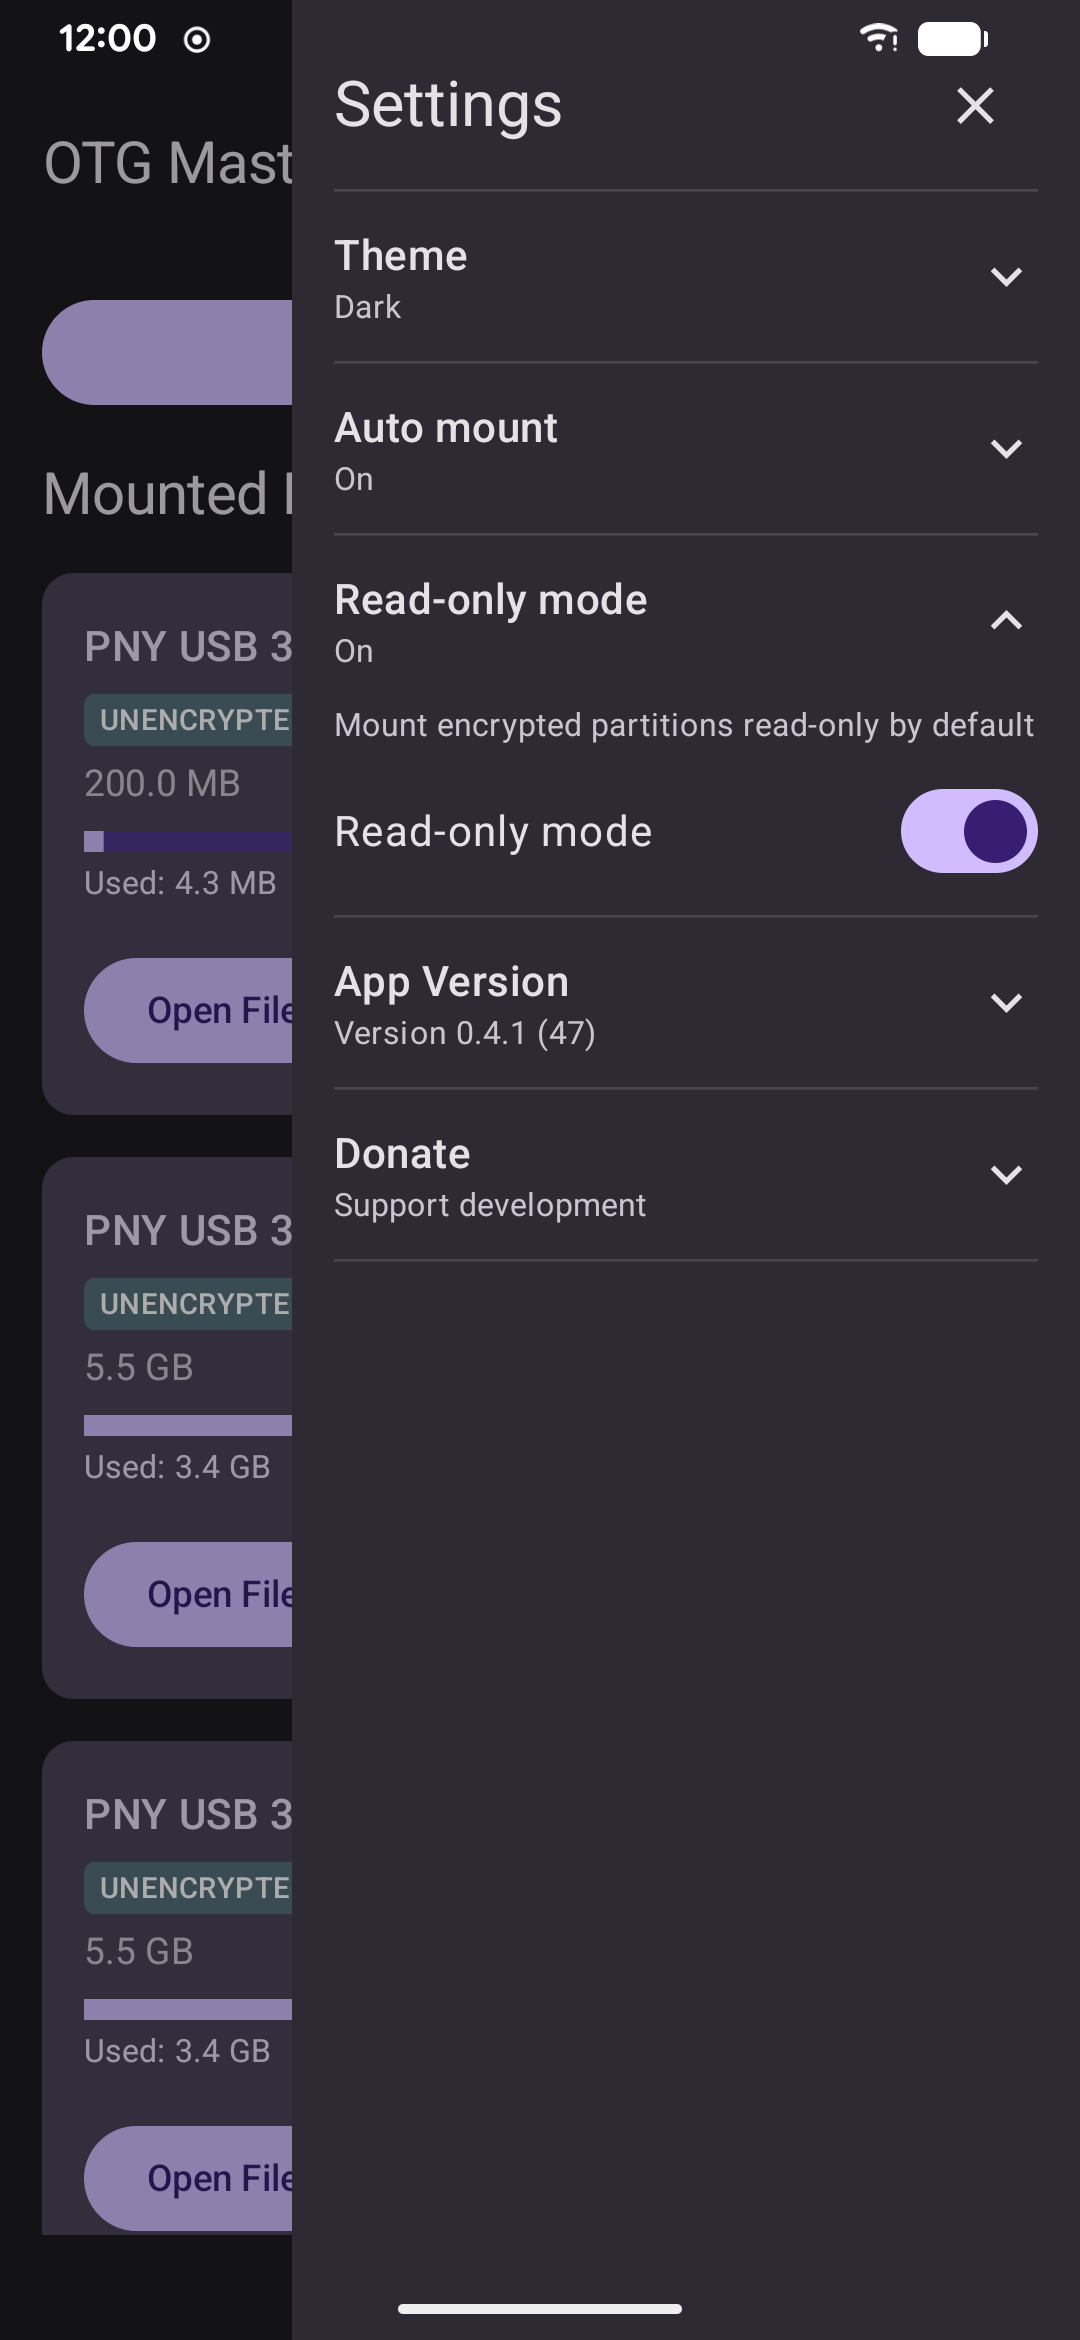
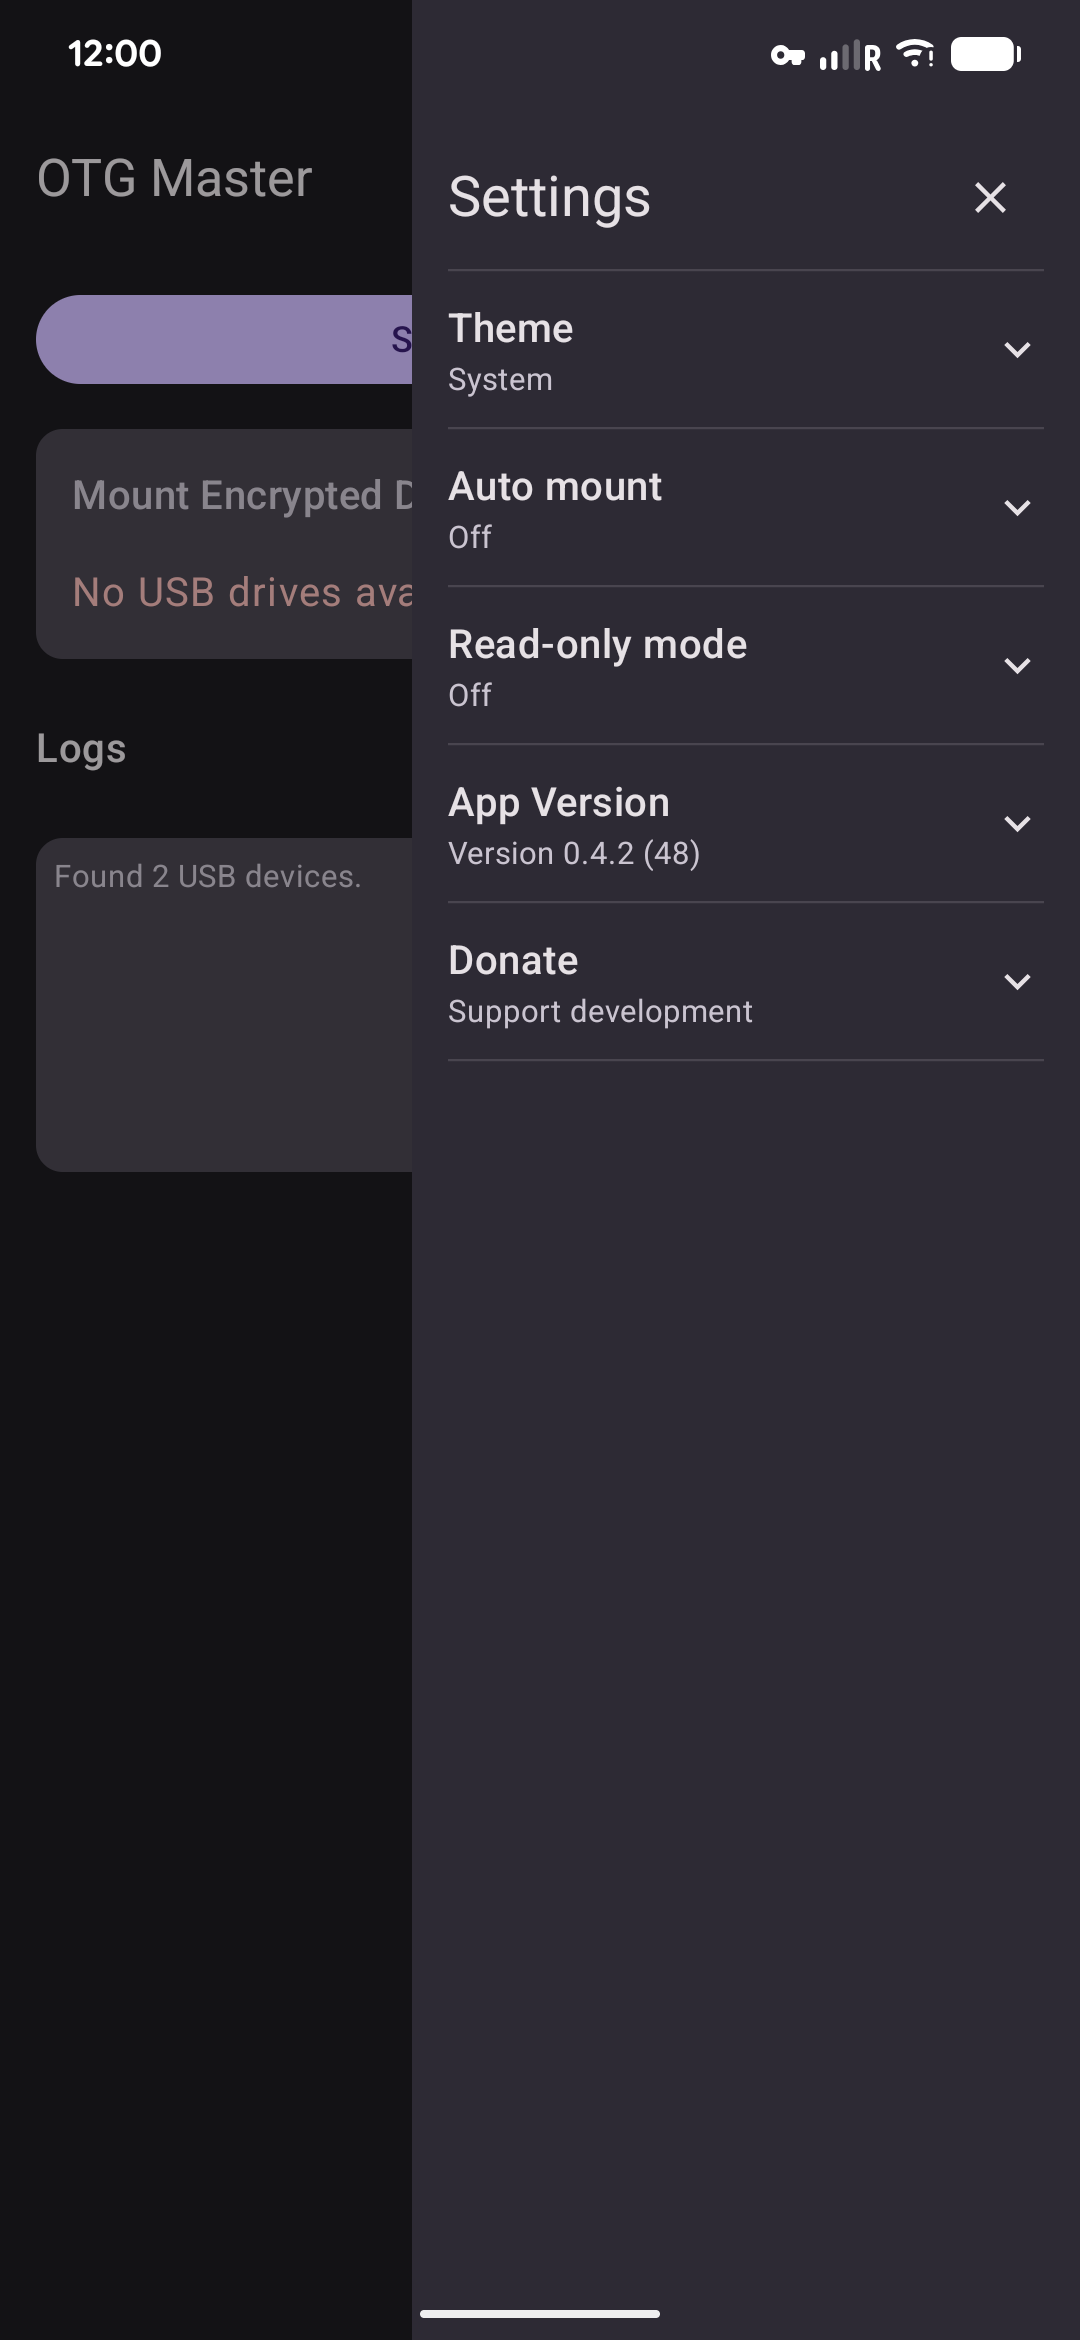
docs: Drive 5 runs on the Pixel — cascades, Argon2, Format and Encrypt; phone screenshots
Device validation for this PR, recorded as AGENTS.md requires (BENCHMARK_RUNS.md, new
section at the top):

- Pixel 7 Pro (Android 17), APK cafdf24, Drive 5 (TEST_DATA.md §16.6, new): six
  VeraCrypt volumes made by desktop VeraCrypt 1.26 — AES-Twofish-Serpent/Argon2 default
  PIM, Serpent-Twofish-AES/Argon2 1, Twofish/SHA-512, AES-Twofish/Argon2 1,
  Serpent-AES/SHA-512 1, Twofish-Serpent/Argon2 31 (1 GiB, 13 passes) — each unlocked
  and passed write verify (3 passes), unaligned and correctness. No PARTIAL / NOT
  VERIFIED / CONTAMINATED line. Sections exclude fixtures/seq/bigwrite: the user scoped
  Drive 5 to ciphers and KDFs, and the stick ran behind a multiport adapter at
  0.07-8.45 MB/s.
- Format and Encrypt through the app's UI: p7 Format exFAT, p8 Format FAT32 then Encrypt
  Twofish/SHA-512 + FAT32, p9 Encrypt AES-Twofish-Serpent/Argon2 + exFAT (all quick; full
  overwrite is covered by the E2E cases and host tests).
- Laptop, verify_volume.sh on all nine partitions: every one CLEAN. Desktop VeraCrypt
  opens the two volumes the app created — including the Argon2 cascade, which no host tool
  could open before (cryptsetup has no Argon2 for TCRYPT).
- The incomplete runs (locked phone, adapter dropouts, a p1 stopped in fixture hashing
  when the scope changed) are listed as not-rows.

TEST_DATA.md §16.6: Drive 5's layout and how it is made, including the vfat `utf8` mount
option the fixture tree's emoji name needs (iocharset=utf8 refuses it).
[…]

diff --git a/docs/BENCHMARK_RUNS.md b/docs/BENCHMARK_RUNS.md
@@ -33,6 +33,62 @@ to a row here.
 
 ---
 
+## 2026-10-11 — 0.4.2 on `cafdf24`: VeraCrypt cascades and Argon2, Format and Encrypt (Drive 5)
+
+Drive 5 is stick `071C48F5FB0EF449` (TEST_DATA.md §16.6): six VeraCrypt volumes made by
+desktop VeraCrypt 1.26 — one per cipher/KDF shape the release adds — and four plain
+partitions for Format and Encrypt. The APK is `cafdf24` (the PR's code; the commits after
+it are tests, docs and screenshots), installed on the Pixel 7 Pro before the runs; every
+report's `build:` line says `0.4.2 (48) commit cafdf24`.
+
+**Scope, set by the user:** cipher and KDF correctness, not bulk transfer. Sections
+`free,block,dir,path,write,unaligned,correct` — no `seq`, `random`, `opens`, `bigwrite`,
+and no `fixtures` (it hashes the 2.1 GB `large/` files, at 0.07 MB/s through the USB-C
+multiport adapter the stick hung off: one p1 attempt spent 83 min there). Content
+correctness is `write verify` on all three passes, `unaligned` and `correctness`; the
+fixture trees were checked instead by the laptop's fsck after the run. Throughput figures
+are the adapter's, not the app's (0.07–8.45 MB/s on the same stick, minutes apart), and
+are not comparable with anything.
+
+| Device · Android | Partition · cipher / KDF / PIM · FS · start | On the phone | Host (20:16, `verify_volume.sh`) |
+|---|---|---|---|
+| Pixel 7 Pro · 17 | p1 · AES-Twofish-Serpent / Argon2 / default (416 MiB, 6 passes) · FAT32 · 17:34 | write verify ALL PASSED (3 passes), unaligned A+B PASS, correctness ALL PASSED | VeraCrypt opens it; vfat CLEAN |
+| Pixel 7 Pro · 17 | p2 · Serpent-Twofish-AES / Argon2 / 1 · exFAT · 18:04 | all PASSED | exfat CLEAN, 20,966 files |
+| Pixel 7 Pro · 17 | p3 · Twofish / SHA-512 / default · NTFS · 18:26 | all PASSED | ntfs CLEAN |
+| Pixel 7 Pro · 17 | p4 · AES-Twofish / Argon2 / 1 · exFAT · 18:28 | all PASSED | exfat CLEAN, 20,951 files |
+| Pixel 7 Pro · 17 | p5 · Serpent-AES / SHA-512 / 1 · FAT32 · 18:30 | all PASSED | vfat CLEAN |
+| Pixel 7 Pro · 17 | p6 · Twofish-Serpent / Argon2 / 31 (1 GiB, 13 passes) · exFAT · 18:49 | all PASSED (76 min; the KDF itself is ~1 min of it) | exfat CLEAN, 20,985 files |
+
+No PARTIAL, NOT VERIFIED or CONTAMINATED line in any of them.
+
+**Format and Encrypt through the UI**, 20:06–20:11, driven by tapping the app as a user
+would (the card's ⋮ menu, the confirmation screen checked to name the right partition,
+ERASE typed): all four quick, because at the 0.92 MB/s the link gave then a full 2 GiB
+overwrite would have taken ~40 min — full is covered by the E2E cases and host tests.
+
+| Partition · before | Action | On the phone | Host |
+|---|---|---|---|
+| p7 · plain exFAT, 0.3 GB of files | Format | "Formatted as exFAT and mounted", 4 s | exfat CLEAN, 0 files |
+| p8 · plain FAT32, 0.3 GB of files | Format, then Encrypt: Twofish / SHA-512 / default, FAT32 inside | 4 s, then "Encrypted (Twofish, SHA-512) with FAT32 inside, and mounted", 22 s | **desktop VeraCrypt opens the app-made volume**; vfat CLEAN |
+| p9 · plain FAT32, 0.3 GB of files | Encrypt: AES-Twofish-Serpent / Argon2 / default, exFAT inside | "Encrypted (AES-Twofish-Serpent, Argon2) with exFAT inside, and mounted", 57 s | **desktop VeraCrypt opens it**; exfat CLEAN, 0 files |
+
+p9 is the case no host tool could check before: cryptsetup has no Argon2 for VeraCrypt, so
+`VeraCryptVolumeCreatorTest` opens Argon2 volumes only with the app's own reader. Desktop
+VeraCrypt opening the app's Argon2 cascade volume is the independent check.
+
+### Not rows: runs that did not complete
+
+- **p1, 13:20 (`241b903`).** The phone was locked; the unlock waited 39 min for USB
+  permission and the benchmark gave up at its 600 s mount timeout. No result.
+- **p1, 14:00, and p2, 14:02 (`241b903`).** p1 lost the drive in its block-layer section
+  (`MAX_RECOVERY_ATTEMPTS Exceeded`) while the multiport adapter re-enumerated its own audio
+  and network interfaces; p2 then read at 0.09 MB/s and was stopped. No result.
+- **p1, 15:40 (`241b903`).** Passed write verify, unaligned and correctness and matched all
+  20,000 listing entries, then spent 83 min hashing the 2.1 GB fixture file and was stopped
+  when the scope dropped `fixtures`. Not a result; p1 was re-run on `cafdf24` (above).
+
+---
+
 ## 2026-10-10 to 10-11 — 0.4.1 on `ae25575`, completing the matrix
 
 Every run here is `ae25575` (the release app code plus the per-partition report save; see

diff --git a/docs/TEST_DATA.md b/docs/TEST_DATA.md
@@ -1103,3 +1103,58 @@ that counted. First, the host's `/usr/bin/dd` is uutils coreutils, whose
 (`gnudd`). Second, both drives running at once shared one udev rule file; it is now
 one per disk.
 
+
+### 16.6 Drive 5 — VeraCrypt cascades and Argon2, Format and Encrypt (0.4.2)
+
+Stick `071C48F5FB0EF449` (once LUKS Drive A). Unlike Drives 1–4 it is not a build image
+written with `write_matrix_drive.sh`: desktop VeraCrypt makes its volumes in place, so
+the volumes are VeraCrypt's own — the point of a cipher test. Password for every volume
+`otgmaster-test-password-2026` (VeraCrypt 1.26 refuses PIM 1 under 20 characters).
+
+| Part | GPT name | Size | Contents |
+|---|---|---|---|
+| 1 | `VC_ATS_ARGON_PIM0` | 8 GiB | VeraCrypt AES-Twofish-Serpent / Argon2 / default PIM, FAT |
+| 2 | `VC_STA_ARGON_PIM1` | 8 GiB | Serpent-Twofish-AES / Argon2 / 1, exFAT |
+| 3 | `VC_TWO_SHA512_PIM0` | 8 GiB | Twofish / SHA-512 / default, NTFS |
+| 4 | `VC_AT_ARGON_PIM1` | 8 GiB | AES-Twofish / Argon2 / 1, exFAT |
+| 5 | `VC_SA_SHA512_PIM1` | 8 GiB | Serpent-AES / SHA-512 / 1, FAT |
+| 6 | `VC_TS_ARGON_PIM31` | 8 GiB | Twofish-Serpent / Argon2 / 31 (1 GiB, 13 passes), exFAT |
+| 7 | `FMT_EXFAT` | 2 GiB | plain exFAT — for Format |
+| 8 | `FMT_FAT32` | 2 GiB | plain FAT32 — for Format |
+| 9 | `ENC_TO_EXFAT` | 2 GiB | plain FAT32 — for Encrypt (to exFAT) |
+| 10 | `ENC_TO_FAT32` | 2 GiB | plain exFAT — for Encrypt (to FAT32) |
+
+The partition table (GPT, ten Microsoft basic data partitions, the sizes above) is made
+with `sfdisk`; the last four were appended later with `sfdisk --append`. Each VeraCrypt
+volume, then its fixture tree (seed = GPT name, manifest kept on the laptop):
+
+```sh
+sudo veracrypt --text --non-interactive --create /dev/sdX1 --volume-type=normal \
+    --encryption=AES-Twofish-Serpent --hash=Argon2 --filesystem=fat --pim=0 \
+    --password=otgmaster-test-password-2026 --quick --random-source=/dev/urandom
+sudo veracrypt --text --non-interactive --mount /dev/sdX1 /tmp/vcx1 \
+    --password=otgmaster-test-password-2026 --pim=0 --hash=Argon2 --protect-hidden=no \
+    --keyfiles= --fs-options="uid=$(id -u),gid=$(id -g),utf8"
+python3 scripts/make_fixture_tree.py /tmp/vcx1 --seed VC_ATS_ARGON_PIM0 \
+    --size 5e8 --manifest-out matrix/vcx/VC_ATS_ARGON_PIM0.MANIFEST.txt
+sudo veracrypt --text --non-interactive --dismount /dev/sdX1
+```
+
+The plain partitions: `mkfs.exfat -L <name>` or `mkfs.vfat -F 32 -n <name>`, mounted
+with the same options, filled with `make_fixture_tree.py … --size 3e8 --large-mib 64
+--dense 2000` (the default 2,100 MiB `large/` file does not fit in 2 GiB).
+
+Two traps met building it:
+
+- **FAT and non-BMP names.** Mounted with `iocharset=utf8`, Linux's vfat refuses the
+  fixture tree's emoji file name (EINVAL) and the fill stops. The `utf8` mount option
+  stores it as a UTF-16 surrogate pair, as Windows does. exFAT takes `iocharset=utf8`.
+- **The plain partitions need their filesystem made before the fill**, and a failed
+  `mkfs` leaves the partition with none — the app then has no card for it, so neither
+  Format nor Encrypt can reach it. Partition 10 ended up that way and sat out the
+  first run.
+
+After a phone run, `verify_volume.sh /dev/sdXN otgmaster-test-password-2026 <pim>` (PIM 0
+for VeraCrypt's default) opens each volume in desktop VeraCrypt and runs its checker —
+which, for partitions the app has encrypted, is also the check that VeraCrypt reads what
+the app wrote.

diff --git a/AGENTS.md b/AGENTS.md
@@ -54,7 +54,8 @@ These apply to every commit, without being asked.
 
    The current set, 1080×2340 (a OnePlus 7 matches that size):
    `1_light` the unlock form in light theme · `2_dark` the unlock form in dark
-   theme · `3_settings` the Settings drawer · `4_mounted` mounted drive cards.
+   theme · `3_settings` the Settings drawer · `4_mounted` mounted drive cards ·
+   `5_actions` a card's More actions menu (Format…, Encrypt…).
    Keep the names and the size; add a shot rather than overloading one.
 
    How to take them without clutter:
